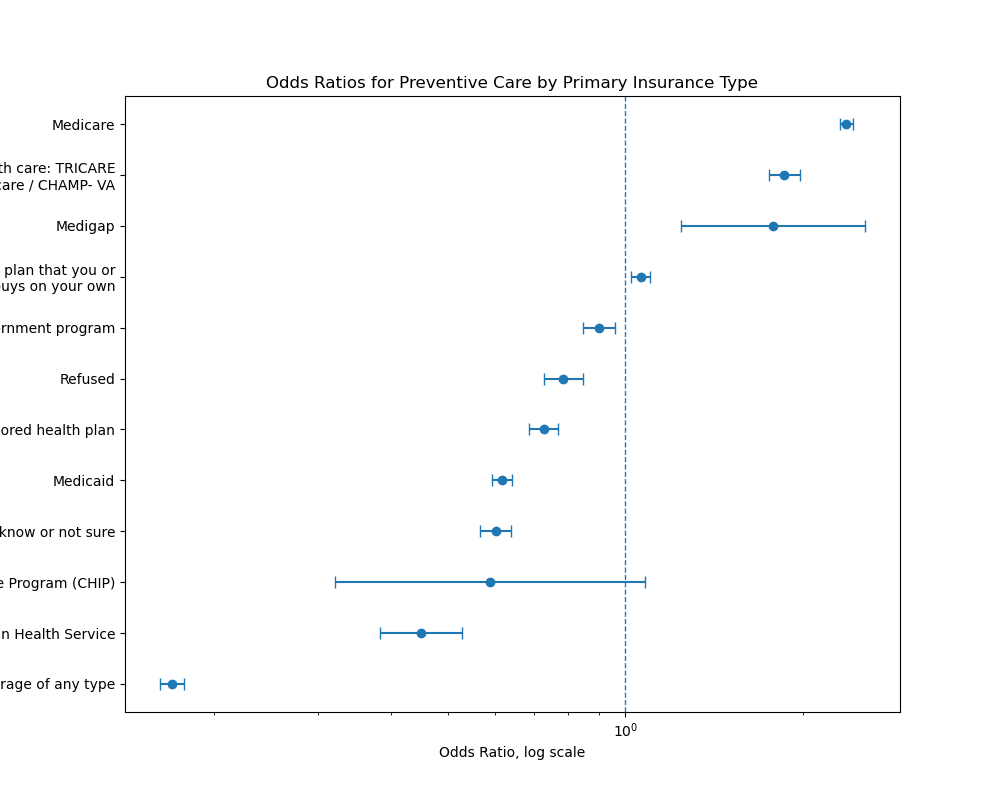
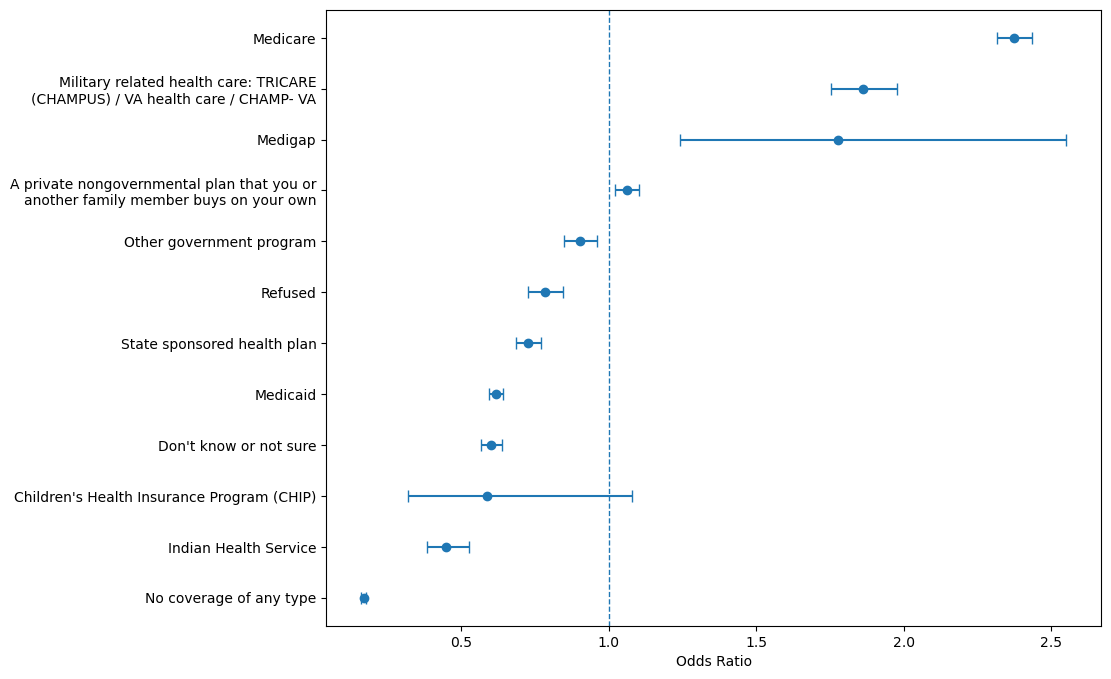
Try and fail to create a different plot, and rearrange things

diff --git a/src/analysis/colorectal_analysis.py b/src/analysis/colorectal_analysis.py
@@ -1,0 +1,114 @@
+import matplotlib.pyplot as plt
+import numpy as np
+import pandas as pd
+import statsmodels.formula.api as smf
+import streamlit as st
+import textwrap
+
+
+CONN = st.connection("postgresql", type="sql")
+
+def plot_odds_ratio(model, path: str) -> None:
+    """
+    Create and save an error bar plot of odds ratios.
+    """
+    # Create a dataframe for plotting
+    plot_df = pd.DataFrame({
+        'term': model.params.index,
+        'coef': model.params.values,
+        'ci_lower': model.conf_int()[0].values,
+        'ci_upper': model.conf_int()[1].values,
+        'p_value': model.pvalues.values
+    })
+    print(plot_df)
+
+    # Remove the intercept row
+    plot_df = plot_df[plot_df['term'] != 'Intercept'].copy()
+
+    # Convert log odds to odds ratios for interpretability
+    plot_df['odds_ratio'] = np.exp(plot_df['coef'])
+    plot_df['or_ci_lower'] = np.exp(plot_df['ci_lower'])
+    plot_df['or_ci_upper'] = np.exp(plot_df['ci_upper'])
+
+    # Clean long statsmodels categorical labels
+    plot_df['label'] = (
+        plot_df['term']
+        .str.replace(r'C\(primins2\)\[T\.', '', regex=True)
+        .str.replace(r'\]$', '', regex=True)
+    )
+
+    # Wrap labels
+    plot_df['label'] = plot_df['label'].apply(lambda x: '\n'.join(textwrap.wrap(x, width=45)))
+
+    # Sort by odds ratio
+    plot_df = plot_df.sort_values('odds_ratio')
+
+    # Set the figure size
+    plt.figure(figsize=(10, 8))
+
+    # Create the figure
+    plt.errorbar(
+        x=plot_df['odds_ratio'],
+        y=plot_df['label'],
+        xerr=[
+            plot_df['odds_ratio'] - plot_df['or_ci_lower'],
+            plot_df['or_ci_upper'] - plot_df['odds_ratio']
+        ],
+        fmt="o",
+        capsize=4
+    )
+
+    # Set odds ratio 1 indicator
+    plt.axvline(1, linestyle="--", linewidth=1)
+    plt.xlabel("Odds Ratio")
+    fig = plt.gcf()
+
+    # Save fig as png
+    fig.savefig(f'src/figures/{path}.png', bbox_inches='tight')
+
+def colorectal_insurance_analysis() -> tuple[pd.DataFrame, 'model']:
+    """
+    Perform analysis on the relationship between primary insurance type and preventive care for colon cancer.
+    """
+    # Fetch data for all colorectal cancer screenings and insurance types
+    query = """SELECT
+                hadsigm4,
+                colncncr,
+                vircolo1,
+                smalstol,
+                stooldn2,
+                primins2
+            FROM staging.behavioral_risk_factor_surveillance_system
+            WHERE primins2 IS NOT NULL
+            AND (
+                hadsigm4 IS NOT NULL
+                OR colncncr IS NOT NULL
+                OR vircolo1 IS NOT NULL
+                OR smalstol IS NOT NULL
+                OR stooldn2 IS NOT NULL
+            );"""
+
+    # Query the database
+    df = CONN.query(sql=query)
+
+    # List of screenings
+    screening_list = ["hadsigm4", "colncncr", "vircolo1", "smalstol", "stooldn2"]
+
+    # Create column for any screenings
+    df['any_screenings'] = (
+        df[screening_list]
+        .eq('Yes')
+        .any(axis=1)
+        .astype(int)
+    )
+
+    # Fit a classification logistic regression model
+    model = smf.logit(
+        formula='any_screenings ~ C(primins2)',
+        data=df
+    ).fit()
+
+    # Plot the odds ratio
+    plot_odds_ratio(model=model, path='colon_odds_ratios')
+
+    return df, model

diff --git a/src/pages/4_CDC.py b/src/pages/4_CDC.py
@@ -1,0 +1,89 @@
+import pandas as pd
+import re
+import streamlit as st
+
+from utils.custom_visuals import rainbow_divider
+
+
+CONN = st.connection("postgresql", type="sql")
+
+SURVEY_TABLE_MAP = {
+    'Colorectal Cancer': 'c07_colorectal_cancer_screenings',
+    'Health Insurance': 'ahs01_health_insurance',
+    'Female Breast Cancer': 'c05_breast_cancer_screenings',
+    'Cervical Cancer': 'c09_cervical_cancer_screenings',
+    'Flu Vaccine': 'iid09_flu_vaccinations',
+    'Overall Wellbeing': 'ohm01_overall_well_being',
+    'Life Expectancy at Birth': 'ohm04_life_expectancy_at_birth',
+    'Health Status': 'ohm08_respondent_assessed_health_status'
+}
+
+def populate_sidebar() -> tuple[str, str]:
+    """
+    Populate the sidebar with survey options.
+    """
+    selected_demographic = None
+    survey_df = pd.DataFrame()
+
+    st.sidebar.title('Surveys')
+
+    survey_options = sorted(SURVEY_TABLE_MAP.keys())
+    selected_survey = st.sidebar.selectbox(
+        label='Select a survey:',
+        options=survey_options,
+        index=None,
+        placeholder='None'
+    )
+
+    if selected_survey:
+        table_name = SURVEY_TABLE_MAP.get(selected_survey)
+
+        query = f"""SELECT *
+                    FROM staging.{table_name};"""
+
+        survey_df = CONN.query(sql=query)
+
+        survey_title = re.sub(r' - OHM.+', '', survey_df['title'].iloc[0])
+        st.subheader(survey_title, text_alignment='center')
+
+        demographic_options = [re.sub(r' \* \^.+', '', demographic) for demographic in survey_df['demographic_group'].unique()]
+
+        selected_demographic = st.sidebar.selectbox(
+            label='Select a demographic:',
+            options=sorted(demographic_options),
+            index=None,
+            placeholder='None'
+        )
+
+    return selected_survey, selected_demographic, survey_df
+
+def populate_body(survey: str, demographic: str, survey_df: pd.DataFrame) -> None:
+    """
+    Populate the body with the selected survey's data.
+    """
+    if not survey:
+        st.info("Please select a survey from the sidebar.")
+
+    elif not demographic:
+        st.info("Please select a demographic from the sidebar.")
+
+    else:
+        survey_df = survey_df.loc[survey_df['demographic_group'].str.contains(demographic, regex=False)]
+        survey_df = survey_df.drop(columns=['code', 'title', 'demographic_group']).sort_values('population')
+        st.dataframe(survey_df, hide_index=True)
+
+
+def main() -> None:
+    """
+    Display the Center for Disease Control and Prevention page.
+    """
+    st.title("Center for Disease Control and Prevention", text_alignment="center")
+
+    rainbow_divider()
+
+    survey, demographic, survey_df = populate_sidebar()
+
+    populate_body(survey, demographic, survey_df)
+
+if __name__ == '__main__':
+    main()

diff --git a/src/pages/5_Analysis.py b/src/pages/5_Analysis.py
@@ -1,16 +1,8 @@
-import matplotlib.pyplot as plt
-import pandas as pd
-import statsmodels.formula.api as smf
-
-import matplotlib.pyplot as plt
-import numpy as np
-import pandas as pd
 import streamlit as st
 
+from analysis.colorectal_analysis import colorectal_insurance_analysis
 from utils.custom_visuals import rainbow_divider
 
-
-CONN = st.connection("postgresql", type="sql")
 
 def populate_sidebar() -> str:
     """
@@ -20,7 +12,7 @@ def populate_sidebar() -> str:
 
     selected_analysis = st.sidebar.selectbox(
         label='Select analysis:',
-        options=['Colon Cancer'],
+        options=['Colorectal Cancer'],
         index=None,
         placeholder='None'
     )
@@ -34,15 +26,20 @@ def populate_body(analysis):
     if not analysis:
         st.info("Please select analysis from the sidebar.")
 
-    elif analysis == 'Colon Cancer':
-        st.text('Is primary insurance type statistically significant to receiving preventive care for colon cancer?')
+    elif analysis == 'Colorectal Cancer':
+        st.header('Is the type of primary insurance statistically significant to receiving colorectal cancer screenings?')
+        st.text('Colorectal cancer screenings include colonoscopy, sigmoidoscopy, virtual colonoscopy, CT colonography, blood stool test, FIT DNA, or Cologuard test.')
+
+        df, model = colorectal_insurance_analysis()
+
         st.image("src/figures/colon_odds_ratios.png")
+
+        st.text(model.summary())
 
 def main() -> None:
     """
     Display the Analysis page.
     """
-
     st.title("Analysis", text_alignment="center")
 
     rainbow_divider()

diff --git a/src/pages/1_Data.py b/src/pages/1_Data.py
@@ -32,9 +32,6 @@ def main() -> None:
         'policies and programs.'
     )
 
-    # NHIS Data
-
-    # CDC Data
 
 if __name__ == '__main__':
     main()

diff --git a/src/Overview.py b/src/Overview.py
@@ -2,6 +2,7 @@ import streamlit as st
 
 from utils.custom_visuals import rainbow_divider
 
+
 def main() -> None:
     """
     Display Overview page.

diff --git a/src/pages/2_BRFSS.py b/src/pages/2_BRFSS.py
@@ -75,7 +75,6 @@ def main() -> None:
     """
     Display the Behavioral Risk Factor Surveillance System page.
     """
-
     st.title("Behavioral Risk Factor Surveillance System", text_alignment="center")
 
     rainbow_divider()